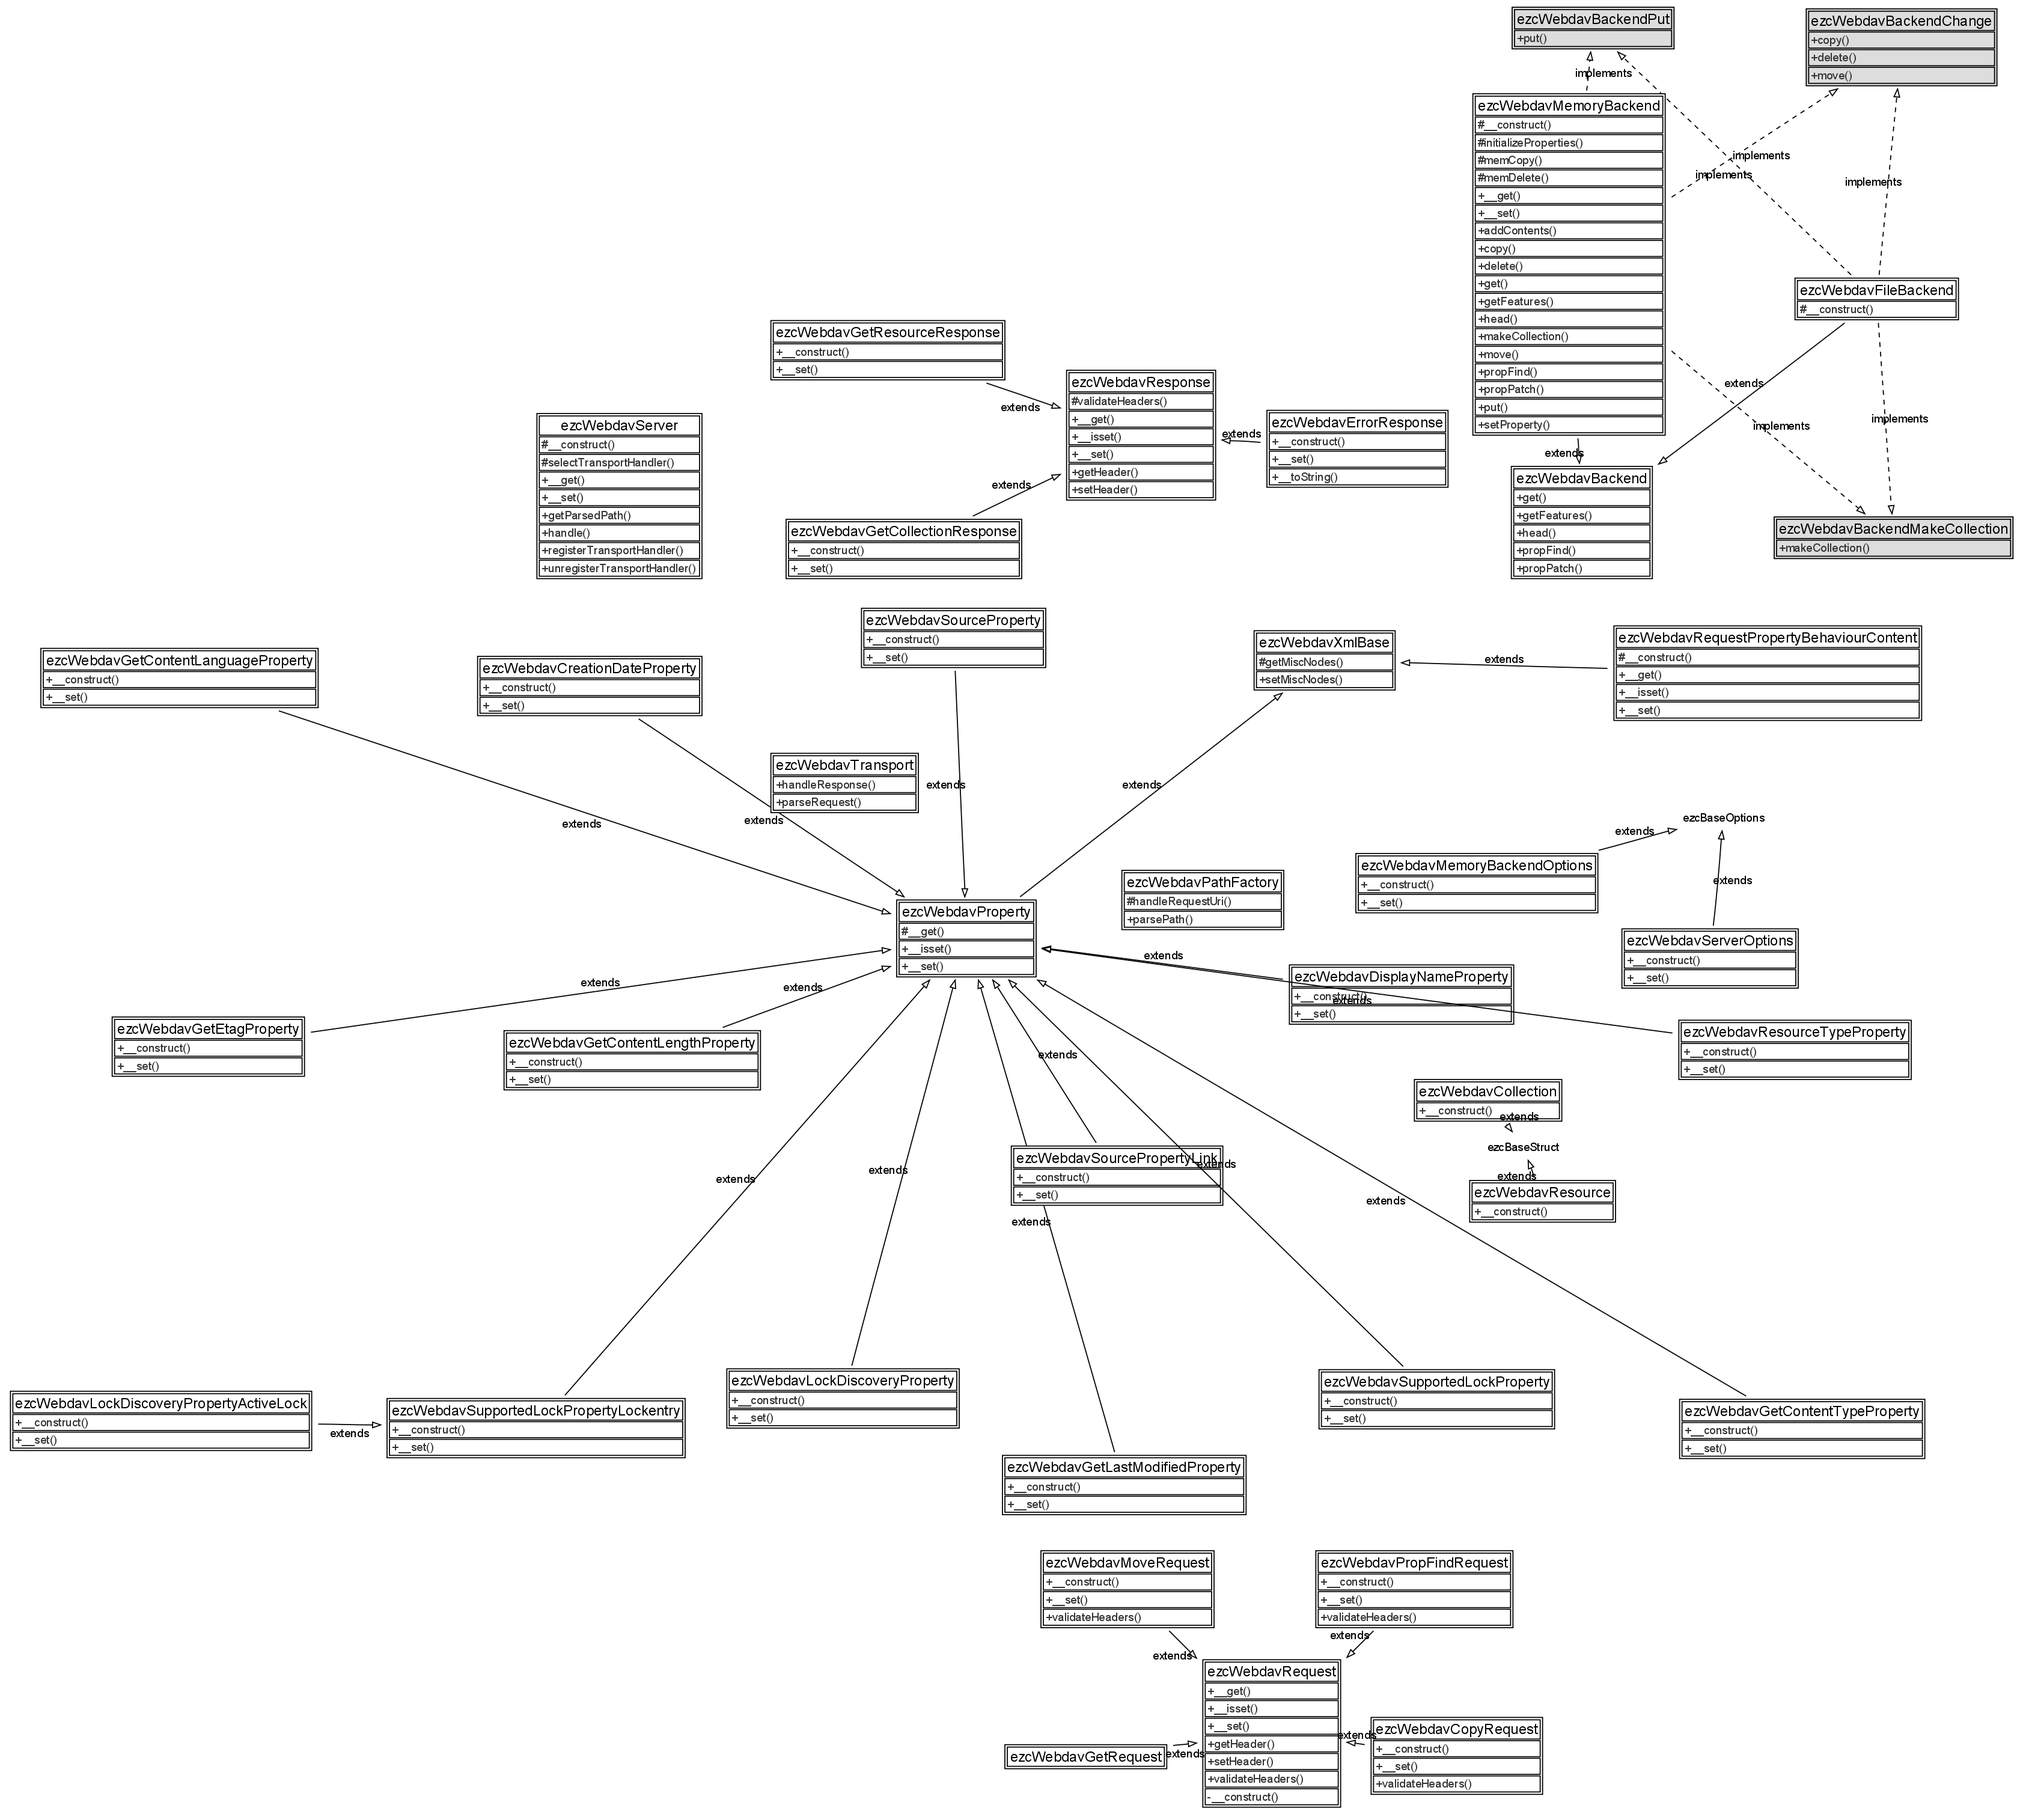
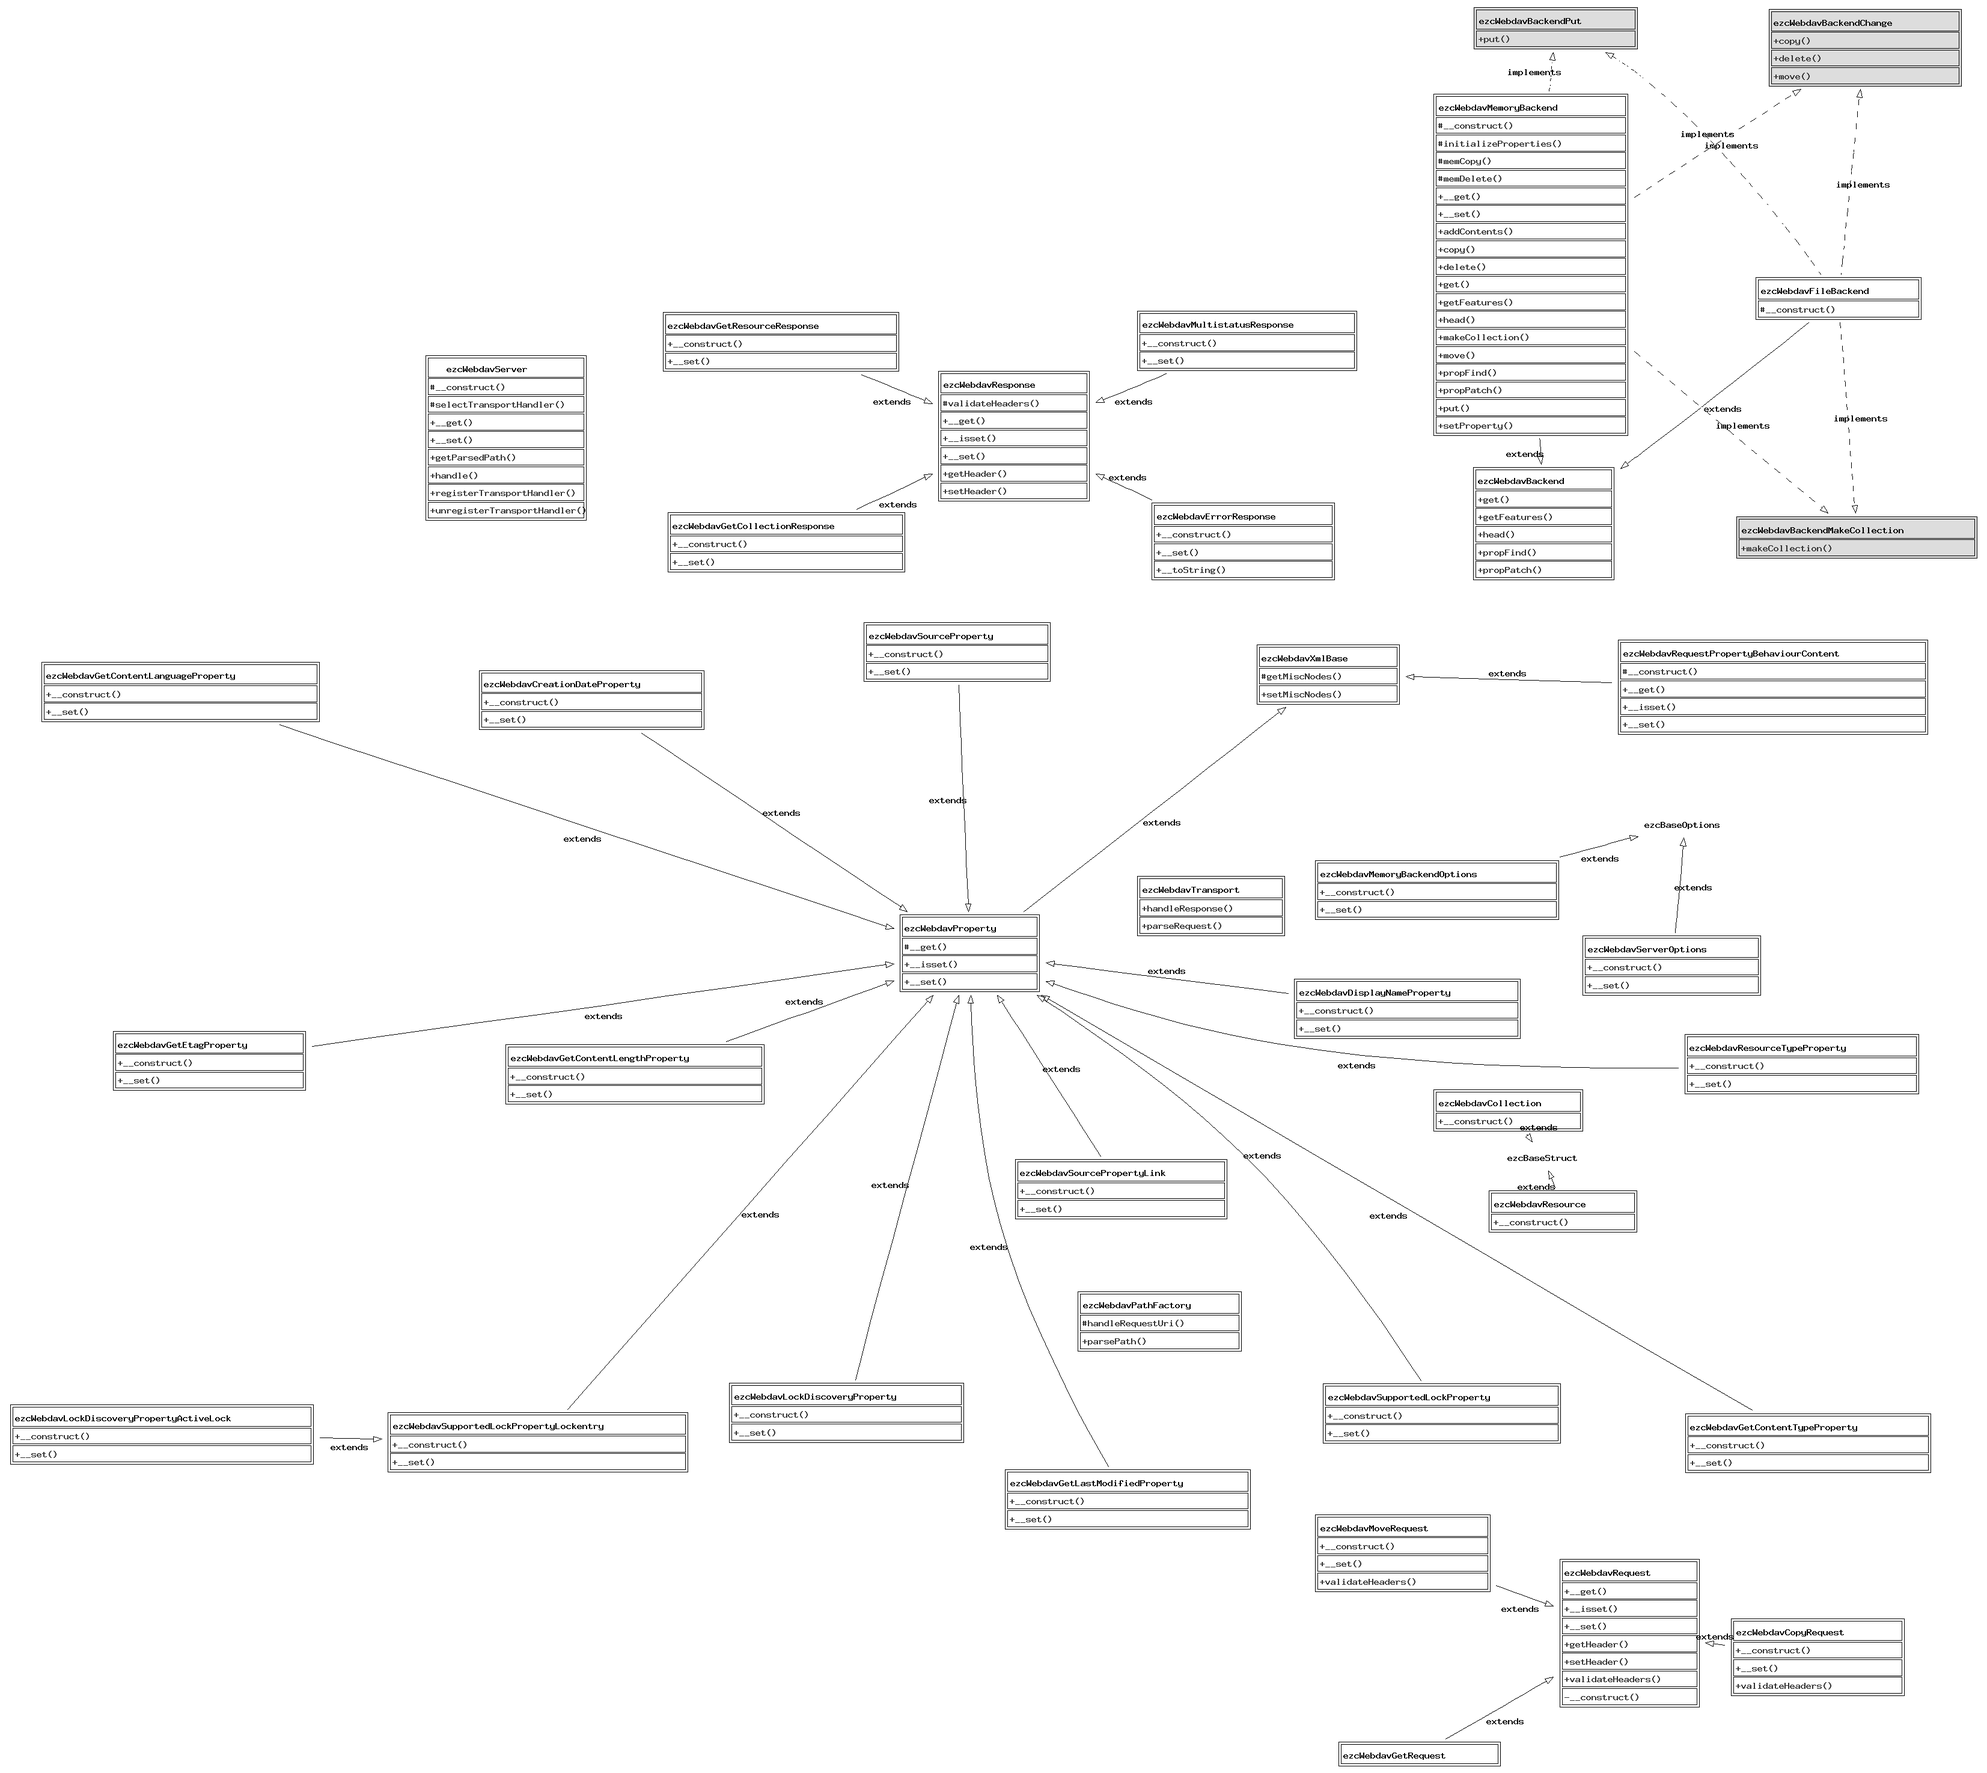
- Updated autoload file

diff --git a/src/webdav_autoload.php b/src/webdav_autoload.php
@@ -45,8 +45,8 @@ return array(
     'ezcWebdavMemoryBackend'                   => 'Webdav/backend/memory.php',
     'ezcWebdavMemoryBackendOptions'            => 'Webdav/options/backend_memory_options.php',
     'ezcWebdavMoveRequest'                     => 'Webdav/request/move.php',
+    'ezcWebdavMultistatusResponse'             => 'Webdav/response/multistatus.php',
     'ezcWebdavPathFactory'                     => 'Webdav/path_factory.php',
-    'ezcWebdavPropFindRequest'                 => 'Webdav/request/propfind.php',
     'ezcWebdavRequestPropertyBehaviourContent' => 'Webdav/request/content/property_behaviour.php',
     'ezcWebdavResource'                        => 'Webdav/structs/resource.php',
     'ezcWebdavResourceTypeProperty'            => 'Webdav/properties/resourcetype.php',
